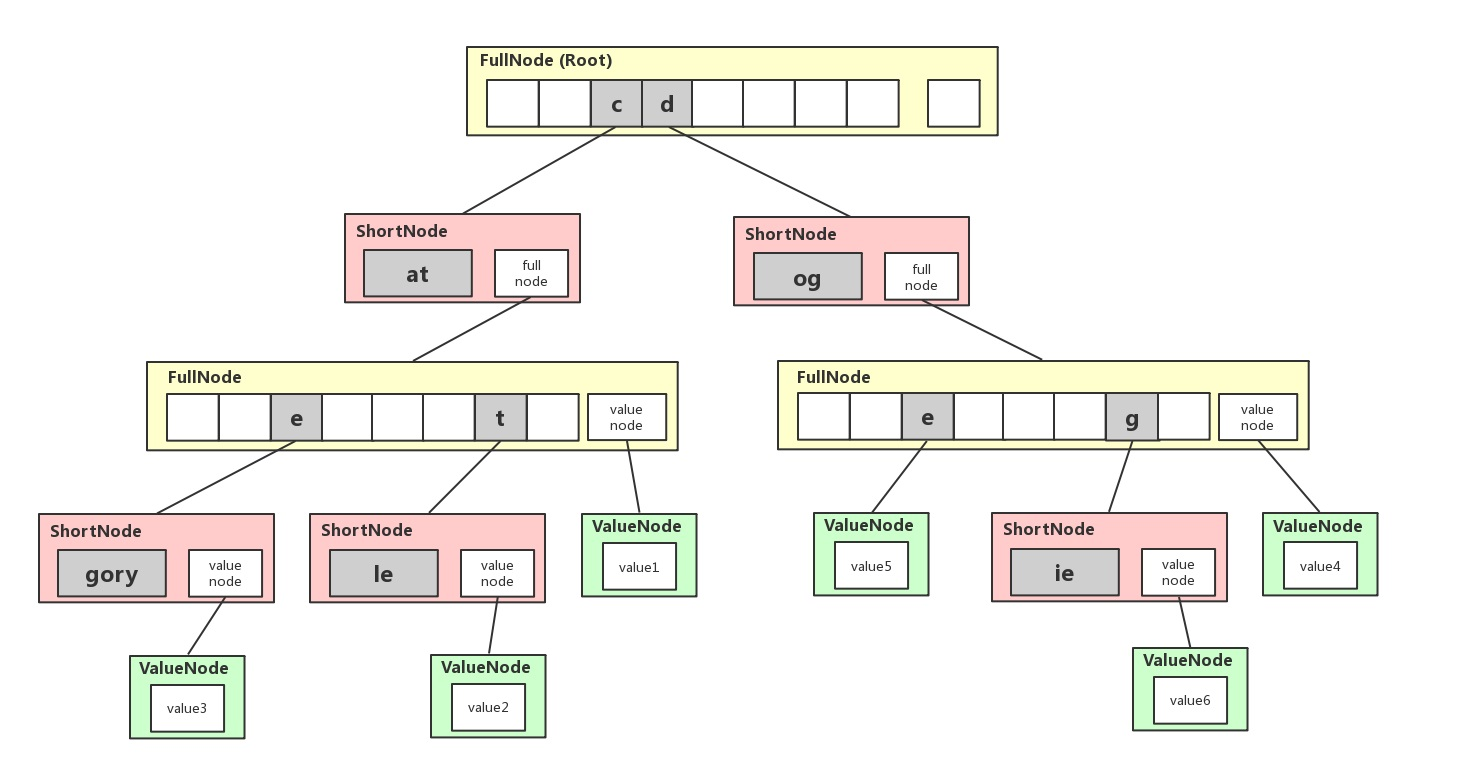
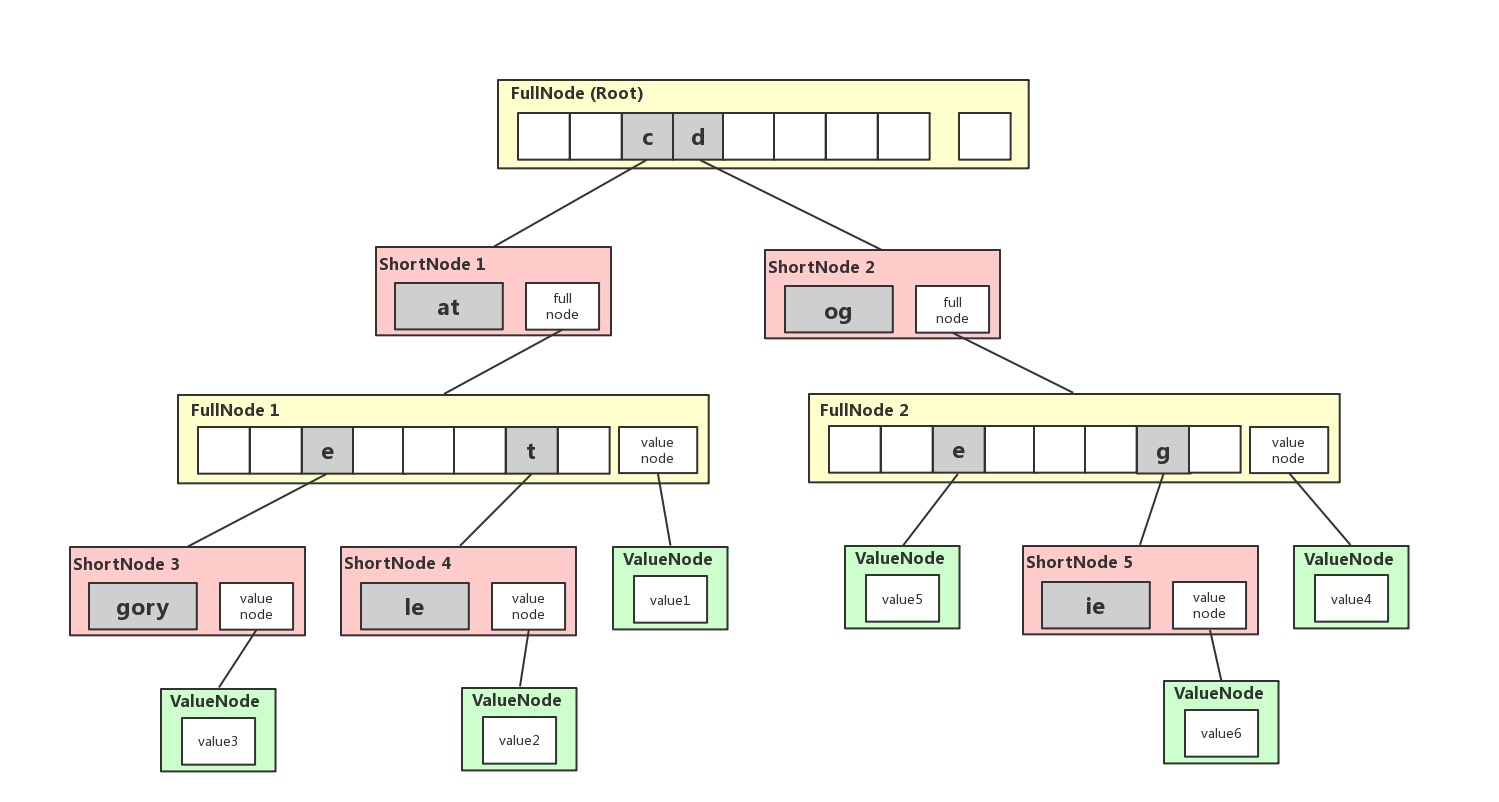
deleted:    statedb_and_trie/StateDB and Trie temp.jpg 	new file:   statedb_and_trie/StateDB and Trie.png 	modified:   statedb_and_trie/statedb_and_trie.md 	modified:   statedb_and_trie/trie example.jpg

diff --git a/statedb_and_trie/statedb_and_trie.md b/statedb_and_trie/statedb_and_trie.md
@@ -1,4 +1,4 @@
-# **以太坊的StateDB和Trie**
+# **以太坊的StateDB和Trie （上）**
 
 在以太坊中，所有和账户相关的状态信息都是通过 StateDB 来存储和获取的。StateDB 作为表层和其他逻辑模块交互，在 StateDB 之后使用 Merkle Patricia Trie (MPT) 结构来构建编码后的 state 关系，用于快速索引以及回滚等操作。MPT 中的所有节点最后都会以 `key - value` 的形式存入磁盘数据库。
 
@@ -11,7 +11,7 @@ MPT 是结合了 Merkle Tree 和 Patricia Tree 的特点后创建的树形数据
 - 支持 Merkle Proof，用于节点的快速校验。
 - 能快速的查询 key 所对应的 value 数据。
 
-<!-- ![mpt](https://github.com/heeeeeng/my_docs/blob/master/statedb_and_trie/mpt.png?raw=true) -->
+![mpt](https://github.com/heeeeeng/my_docs/blob/master/statedb_and_trie/mpt.png?raw=true)
 
 在以太坊中，MPT被定义为四种不同类型的节点：`fullNode, shortNode, valueNode, hashNode`：
 ```go
@@ -35,22 +35,39 @@ type (
 
 `shortNode` 是 MPT 的枝干节点之一。"Key" 字段存储当前 shortNode 之后所有 node 共同的一段前缀 key。"Val" 字段存储一个后续的节点。如果从根节点到当前节点所组成的 key 前缀已经键值对结构中的"键"完全吻合，且没有其它符合此前缀的键值对存在，则后续节点为一个 valueNode。如果满足此前缀 key 的键值对组合多于一个，则后续存储一个 fullNode。
 
-`fullNode` 是 MPT 的枝干节点之一。和 shortNode 不同的是，fullNode 没有 Key 字段，只有一个 node 数组 "Children"。fullNode 主要作用是存储有共同前缀 key 但是在后续key值产生分歧的所有键值对。node 数组的长度为 17，因为涉及具体的编码方式，所以先不在这里讲为什么这么设置。可以简单将 17 理解为 16 + 1，16 进制加上本身的 value 值。
+`fullNode` 是 MPT 的枝干节点之一。和 shortNode 不同的是，fullNode 没有 Key 字段，只有一个 node 数组 "Children"。fullNode 主要作用是存储有共同前缀 key 但是在后续key值产生分歧的所有键值对。Children 数组中的每一个元素都表示一个前缀符号（具体可以参考下面的例子），用不同的前缀符号来分隔不同的键值对。以太坊中 Children 数组的长度为 17，因为涉及具体的编码方式，所以不在这里展开讲为什么这么设置。可以简单将 17 理解为 16 + 1，16 进制加上本身的 value 值。
 
 ### **具体例子**
 光看字面比较抽象，我们看看具体的例子。假设现在我们有 6 个键值对：
-```
-cat         - value1
-cattle      - value2
-category    - value3
-dog         - value4
-doge        - value5
-doggie      - value6
-```
+key | value
+--- | --- 
+cat | value1
+cattle | value2
+category | value3
+dog | value4
+doge | value5
+doggie | value6
+
 他们在 MPT 中就会以如下的方式存储：
-![mpt example]()
 
+![mpt example](https://github.com/heeeeeng/my_docs/blob/master/statedb_and_trie/trie%20example.jpg?raw=true)
 
+可以看到，因为存在前缀分歧，所以 Root 节点是 fullNode。后续节点分成两派，key 以 `c` 为前缀和以 `d` 为前缀。我们关注以 `d` 为前缀的三个键值对，它们的 key 分别是 "dog"、"doge" 和 "doggie"。除了开头的 `d` 以外，它们还有个共同的前缀 `og`。因此 Root 节点往下引申一个 ShortNode 2。ShortNode 2 的 key 就是 "og", 又因为除了 og 其它部分都存在分歧，所以 ShortNode 2 的 Val 字段存储的是一个 FullNode（参考上面对 shortNode 的解释）。
+
+上面提到过，fullNode 存在17个元素，可以简单理解为 16 进制加上本身 value 值构成 17 个元素。在我们的例子中，此处的 FullNode 2 已经构成了 `dog` 这个前缀 key（根节点的 d 加上后续 shortNode 的 og），已经完全吻合 `dog - value4` 这个键值对中的 key，所以 FullNode 2 的末尾便是一个 ValueNode，ValueNode 的值是 value4。
+
+FullNode 2 的前缀 key 再加上其内部的 `e` 能够构成前缀 key "doge"，所以 `e` 位置下面直接引申一个 ValueNode，其值便是 `doge - value5` 这键值对内的 value5。
+
+FullNode 2 的前缀 key 加上其内部的 `g` 组成 key 前缀 `dogg`。剩下的符合 `dogg` 前缀的只有 `doggie - value6`。所以 `g` 下面引申一个 ShortNode 5，其节点的 Key 字段为 `ie`，Val 字段为一个值为 value6 的 ValueNode。
+
+另外三个前缀为 `c` 的键值对则同理可以得到图中的结构。
+
+### **MPT 的编码**
+
+上面的例子中所有的数据都是没有经过编码的，这会造成什么问题呢？之前提过 FullNode 的每个 Children 元素都代表一个前缀符号，如果不对key进行编码则很难将这个前缀符号规范化，使得前缀的种类过多无法确定 Children 数组的长度。为了解决这个问题，以太坊使用 Hex 编码对所有键值对的 key 进行编码。编码后所有的 key 就都由 `[0,1,2,3,4,5,6,7,8,9,a,b,c,d,e,f]` 这 16 个十六进制符号组成。编码后，FullNode 的 Children 就可以分割成 16 份，每份对应各自的前缀符号，这也是为什么以太坊 FullNode 的 Children 数组长度是 17 ( 16 个子节点 + 本身节点 )。
+
+举个例子：
+假设键值对 `doggie - value6` 经过编码后变为 `0x646f67676965 - value6`，那么在 Root 节点中这个键值对就会被分到 `6` 这个子节点下面，也就是 Children 数组的第七个元素中。
 
 ## **StateDB**
 
